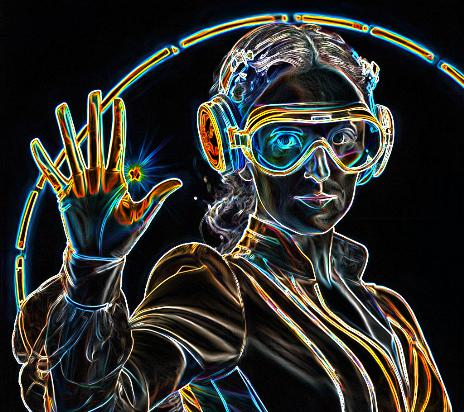
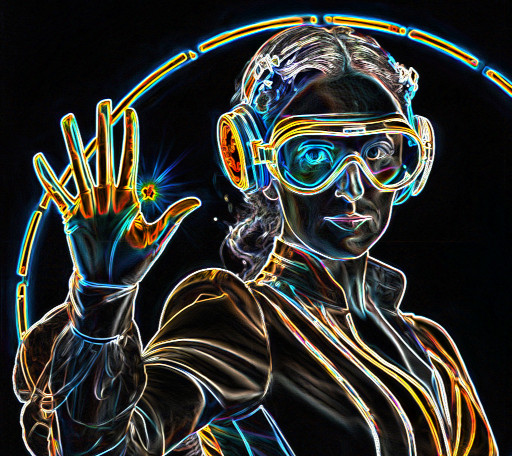
Add files via upload

Changed region(s): [[0.0, 0.0291, 1.0, 1.0], [0.2112, 0.8155, 0.2414, 0.8447], [0.181, 0.8447, 0.2112, 0.8738]]

diff --git a/Support.html b/Support.html
@@ -9,40 +9,40 @@
 </head>
 <body>
 <div id="container">
-<div id="WrapText1" style="position:absolute;left:607px;top:22px;width:490px;height:61px;z-index:0;overflow:hidden;">
+<div id="wb_Image2" style="position:absolute;left:1120px;top:27px;width:456px;height:406px;z-index:0;">
+<img src="images/Ada.jpg" id="Image2" alt=""></div>
+<div id="WrapText1" style="position:absolute;left:607px;top:22px;width:490px;height:61px;z-index:1;overflow:hidden;">
 <div class="WrapText1" style="left:101px;top:4px;width:385px;">AI and Machine Learning </div>
 </div>
-<div id="wb_Image1" style="position:absolute;left:1121px;top:22px;width:464px;height:412px;z-index:1;">
-<img src="images/Ada.jpg" id="Image1" alt=""></div>
-<div id="wb_Image2" style="position:absolute;left:29px;top:477px;width:512px;height:518px;z-index:2;">
-<img src="images/system.jpg" id="Image2" alt=""></div>
-<div id="WrapText2" style="position:absolute;left:567px;top:477px;width:490px;height:61px;z-index:3;overflow:hidden;">
+<div id="WrapText2" style="position:absolute;left:567px;top:477px;width:490px;height:61px;z-index:2;overflow:hidden;">
 <div class="WrapText2" style="left:4px;top:4px;width:339px;">Systems Engineering </div>
 </div>
-<div id="WrapText4" style="position:absolute;left:567px;top:570px;width:870px;height:110px;z-index:4;overflow:hidden;">
+<div id="WrapText4" style="position:absolute;left:567px;top:570px;width:870px;height:110px;z-index:3;overflow:hidden;">
 <div id="WrapText4-float">
 </div>
 <div class="WrapText4">We offer Systems Engineering as a service. When it's about handling all the<br>aspects of complex systems, we are ready to support you in the field and to<br>deal with the coming encounters toegether. </div>
 </div>
-<div id="WrapText5" style="position:absolute;left:567px;top:710px;width:870px;height:110px;z-index:5;overflow:hidden;">
+<div id="WrapText5" style="position:absolute;left:567px;top:710px;width:870px;height:110px;z-index:4;overflow:hidden;">
 <div id="WrapText5-float">
 </div>
 <div class="WrapText5">Don't hesitate to reach out to us. We are an open minded company and will<br>respond to any request. It doesn't matter how wild and challenging your<br>requests are. </div>
 </div>
-<div id="WrapText6" style="position:absolute;left:567px;top:852px;width:870px;height:110px;z-index:6;overflow:hidden;">
+<div id="WrapText6" style="position:absolute;left:567px;top:852px;width:870px;height:110px;z-index:5;overflow:hidden;">
 <div id="WrapText6-float">
 </div>
 <div class="WrapText6">We will investigate a potential solution together and reach your goals in time. </div>
 </div>
-<div id="WrapText3" style="position:absolute;left:264px;top:115px;width:833px;height:107px;z-index:7;overflow:hidden;">
+<div id="WrapText3" style="position:absolute;left:264px;top:115px;width:833px;height:107px;z-index:6;overflow:hidden;">
 <div class="WrapText3" style="left:37px;top:4px;width:792px;">Software development is our passion. Machine Learning, AI and Algorithms </div>
 <div class="WrapText3" style="left:39px;top:36px;width:790px;">are our religion. We write highly optimized code for any requested platform. </div>
 </div>
-<div id="WrapText7" style="position:absolute;left:250px;top:220px;width:847px;height:107px;z-index:8;overflow:hidden;">
+<div id="WrapText7" style="position:absolute;left:250px;top:220px;width:847px;height:107px;z-index:7;overflow:hidden;">
 <div class="WrapText7" style="left:107px;top:4px;width:736px;">We are always open to go the last step for our customers. If you need </div>
 <div class="WrapText7" style="left:28px;top:36px;width:815px;">hardware synthesis, an ADA implementation or everything down to assembly. </div>
 <div class="WrapText7" style="left:561px;top:68px;width:282px;">We enjoy such challenges. </div>
 </div>
+<div id="wb_Image3" style="position:absolute;left:32px;top:478px;width:511px;height:517px;z-index:8;">
+<img src="images/system.jpg" id="Image3" alt=""></div>
 </div>
 </body>
 </html>

diff --git a/Support.css b/Support.css
@@ -16,6 +16,20 @@ body
    margin: 0;
    text-align: center;
 }
+#wb_Image2
+{
+   vertical-align: top;
+}
+#Image2
+{
+   border: 0px solid #000000;
+   padding: 0;
+   margin: 0;
+   left: 0;
+   top: 0;
+   width: 100%;
+   height: 100%;
+}
 #WrapText1
 {
    background-color: transparent;
@@ -32,34 +46,6 @@ body
    font-size:34.80px;
    font-style: normal;
    text-align: right;
-}
-#wb_Image1
-{
-   vertical-align: top;
-}
-#Image1
-{
-   border: 0px solid #000000;
-   padding: 0;
-   margin: 0;
-   left: 0;
-   top: 0;
-   width: 100%;
-   height: 100%;
-}
-#wb_Image2
-{
-   vertical-align: top;
-}
-#Image2
-{
-   border: 0px solid #000000;
-   padding: 0;
-   margin: 0;
-   left: 0;
-   top: 0;
-   width: 100%;
-   height: 100%;
 }
 #WrapText2
 {
@@ -192,6 +178,20 @@ body
    font-size:23.80px;
    font-style: normal;
    text-align: right;
+}
+#wb_Image3
+{
+   vertical-align: top;
+}
+#Image3
+{
+   border: 0px solid #000000;
+   padding: 0;
+   margin: 0;
+   left: 0;
+   top: 0;
+   width: 100%;
+   height: 100%;
 }
         h1 {text-align: center;
             vertical-align: center;}

diff --git a/Contact.html b/Contact.html
@@ -12,11 +12,11 @@
 </head>
 <body>
 <div id="container">
-<div id="WrapText1" style="position:absolute;left:550px;top:22px;width:490px;height:61px;z-index:0;overflow:hidden;">
+<div id="wb_Image4" style="position:absolute;left:17px;top:22px;width:512px;height:518px;z-index:0;">
+<img src="images/system.jpg" id="Image4" alt=""></div>
+<div id="WrapText1" style="position:absolute;left:550px;top:22px;width:490px;height:61px;z-index:1;overflow:hidden;">
 <div class="WrapText1" style="left:4px;top:4px;width:177px;">Contact us </div>
 </div>
-<div id="wb_Image2" style="position:absolute;left:17px;top:22px;width:512px;height:518px;z-index:1;">
-<img src="images/system.jpg" id="Image2" alt=""></div>
 <div id="WrapText5" style="position:absolute;left:550px;top:103px;width:870px;height:110px;z-index:2;overflow:hidden;">
 <div id="WrapText5-float">
 </div>

diff --git a/Contact.css b/Contact.css
@@ -16,6 +16,20 @@ body
    margin: 0;
    text-align: center;
 }
+#wb_Image4
+{
+   vertical-align: top;
+}
+#Image4
+{
+   border: 0px solid #000000;
+   padding: 0;
+   margin: 0;
+   left: 0;
+   top: 0;
+   width: 100%;
+   height: 100%;
+}
 #WrapText1
 {
    background-color: transparent;
@@ -32,20 +46,6 @@ body
    font-size:34.80px;
    font-style: normal;
    text-align: left;
-}
-#wb_Image2
-{
-   vertical-align: top;
-}
-#Image2
-{
-   border: 0px solid #000000;
-   padding: 0;
-   margin: 0;
-   left: 0;
-   top: 0;
-   width: 100%;
-   height: 100%;
 }
 #WrapText5
 {
